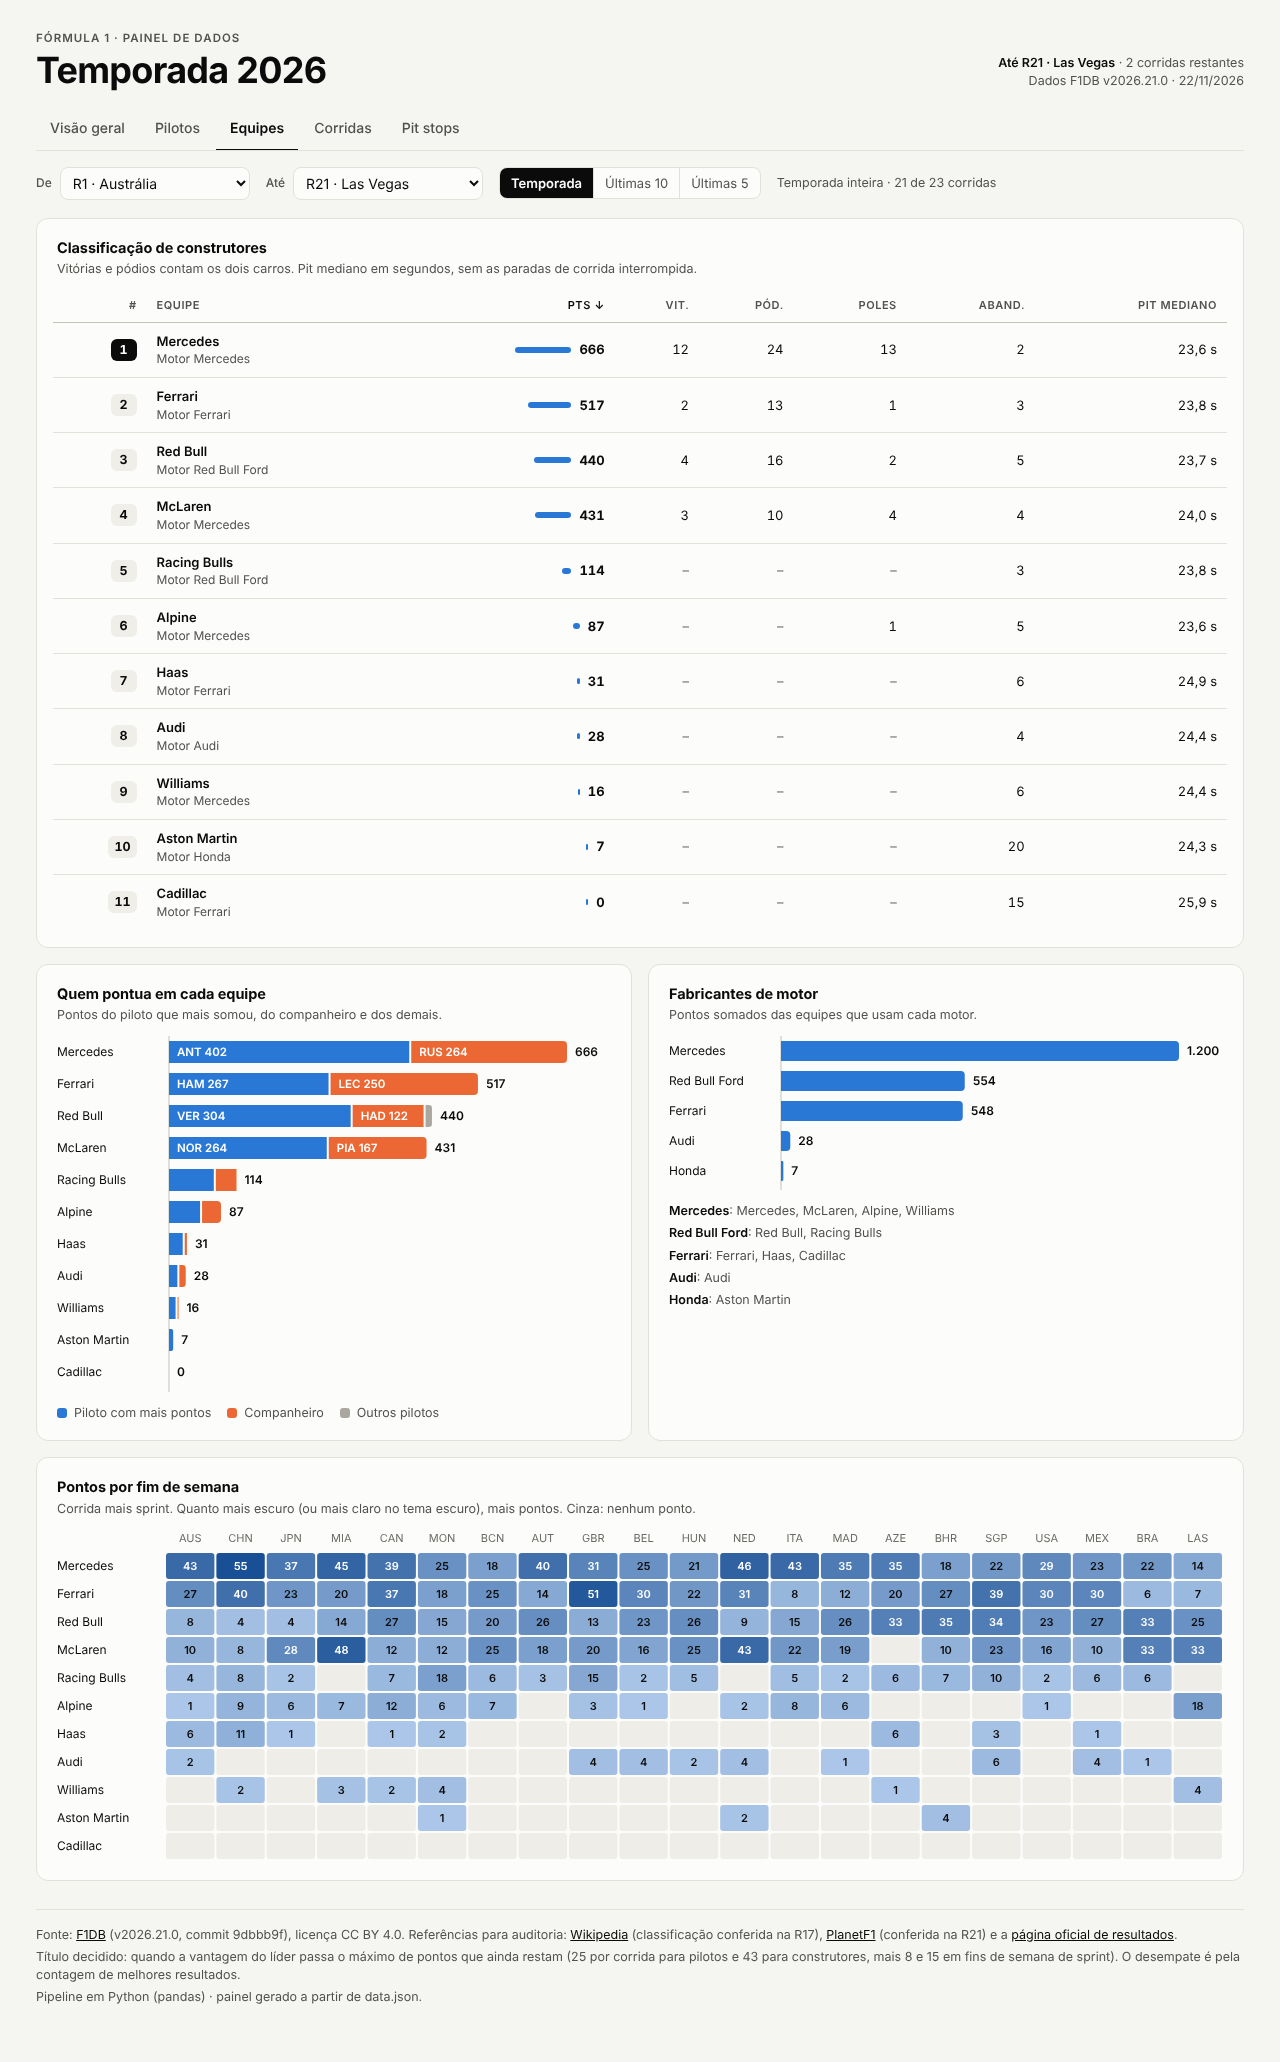
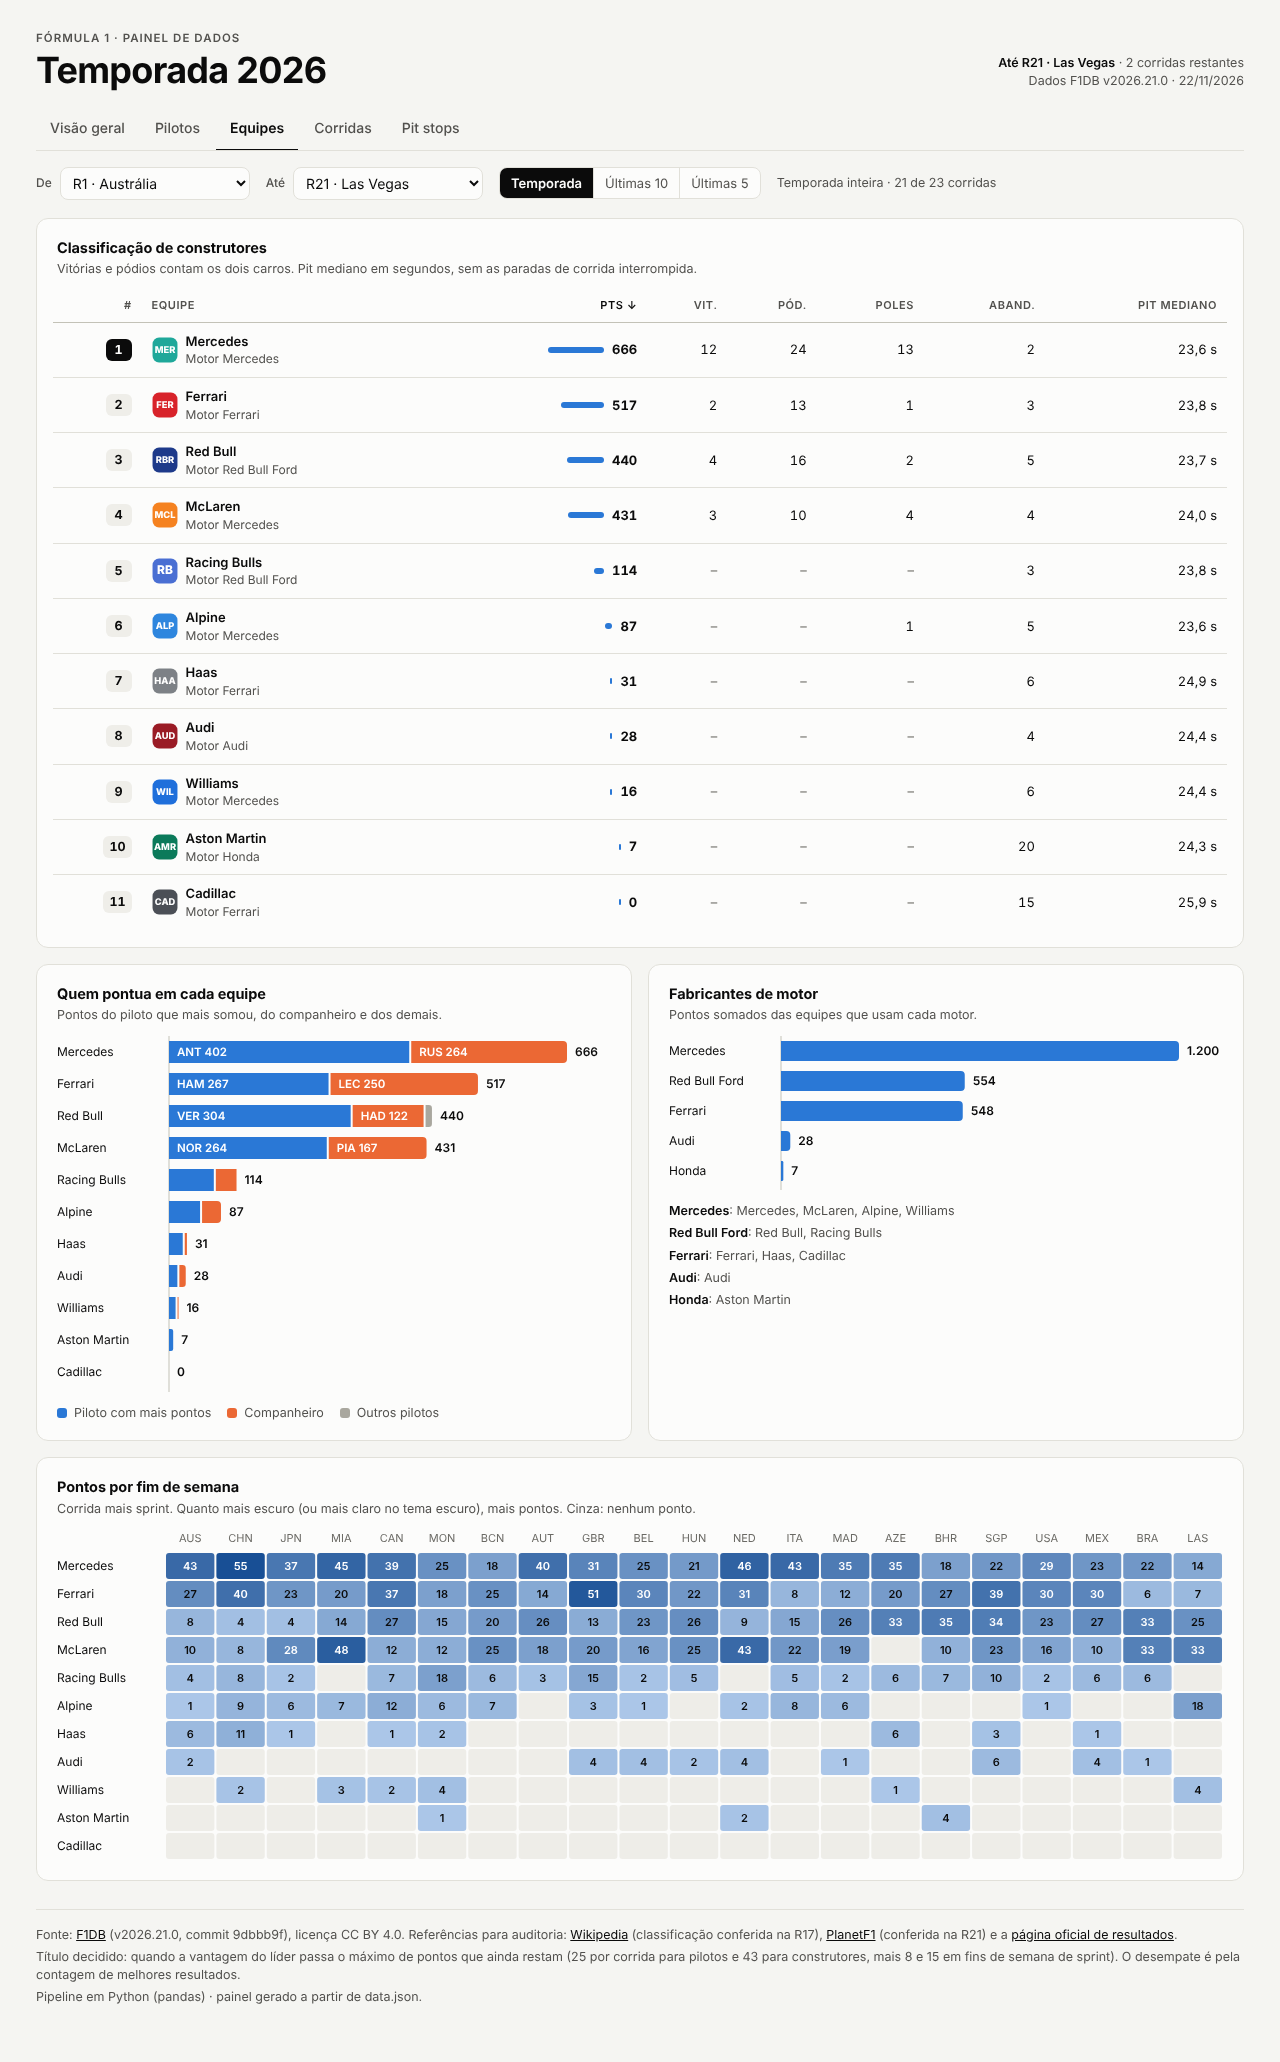
Painel: emblemas das equipes e taças dos campeões
Adiciona emblemas próprios (sigla sobre a cor da equipe) na tabela de equipes,
no gráfico de construtores e nos cartões, e a seção "Campeões de 2026" com taça
dourada quando o título está decidido (apagada quando em aberto). Atualiza
README e imagens.

Claude-Session: https://claude.ai/code/session_018uhaG8NDAsNpUM7AscAmuW

Changed region(s): [[0.0938, 0.1552, 0.2188, 0.4656], [0.4375, 0.2173, 0.5, 0.2793]]

diff --git a/dashboard/index.html b/dashboard/index.html
@@ -202,6 +202,17 @@ footer{margin-top:28px;padding-top:16px;border-top:1px solid var(--line);color:v
 footer a{color:var(--ink)}
 .empty{padding:22px;text-align:center;color:var(--ink2)}
 @media (prefers-reduced-motion:no-preference){.tab,.chip,.seg-ctl button{transition:background-color .12s,color .12s}}
+
+.tb{flex:none;vertical-align:middle}
+.inl{display:inline-flex;align-items:center;gap:8px}
+.champs{display:grid;grid-template-columns:minmax(0,1fr) minmax(0,1fr);gap:16px;margin-top:14px}
+.champ{display:flex;align-items:center;gap:16px;padding:14px 16px;border:1px solid var(--line);border-radius:12px;background:var(--surface)}
+.champ .trophy{flex:none;width:76px;height:76px}
+.champ .k{font-size:12px;color:var(--ink2);font-weight:600;letter-spacing:.06em;text-transform:uppercase}
+.champ .nm{font-size:21px;font-weight:700;letter-spacing:-.01em;margin:2px 0 4px}
+.champ .tm{display:flex;align-items:center;gap:8px;color:var(--ink2);font-size:13px;margin-bottom:8px}
+.champ.open .trophy{opacity:.55}
+@media (max-width:720px){.champs{grid-template-columns:minmax(0,1fr)}}
 </style>
 
 </head>
@@ -253,6 +264,36 @@ const dmy = iso => dm(iso) + '/' + iso.slice(0, 4);
 const median = a => { if (!a.length) return null; const b = [...a].sort((x, y) => x - y), m = b.length >> 1; return b.length % 2 ? b[m] : (b[m - 1] + b[m]) / 2; };
 const signed = n => (n > 0 ? '+' : n < 0 ? '−' : '') + f0(Math.abs(n));
 const plural = (n, one, many) => n === 1 ? one : many;
+
+/* ------------------------------------------------------------ emblemas das equipes e taças
+   Emblemas próprios (sigla sobre a cor da equipe). Não são os logotipos oficiais, que são marcas registradas. */
+const TEAM_STYLE = {
+  'mercedes': ['MER', '#1fa89a'], 'ferrari': ['FER', '#d8232a'], 'red-bull': ['RBR', '#1e3a8a'], 'mclaren': ['MCL', '#f58220'],
+  'racing-bulls': ['RB', '#4a6fd3'], 'alpine': ['ALP', '#2e86de'], 'haas': ['HAA', '#7d8186'], 'audi': ['AUD', '#9a1b25'],
+  'williams': ['WIL', '#1f6fdb'], 'aston-martin': ['AMR', '#0b7a5a'], 'cadillac': ['CAD', '#4b4f56']
+};
+function teamBadge(i, size = 22) {
+  const id = D.teams[i].id, st = TEAM_STYLE[id] || [D.teams[i].name.slice(0, 3).toUpperCase(), '#6b6a65'];
+  const c = st[1], rgb = [1, 3, 5].map(k => parseInt(c.slice(k, k + 2), 16)), lum = (0.299 * rgb[0] + 0.587 * rgb[1] + 0.114 * rgb[2]) / 255;
+  const fs = st[0].length > 2 ? 8.6 : 11;
+  return sv('svg', { class: 'tb', width: size, height: size, viewBox: '0 0 24 24', role: 'img', 'aria-label': 'Emblema ' + D.teams[i].name },
+    sv('rect', { x: 0.5, y: 0.5, width: 23, height: 23, rx: 6, fill: c }),
+    sv('text', { x: 12, y: 15, 'text-anchor': 'middle', 'font-size': fs, 'font-weight': 800, 'font-family': 'Inter,system-ui,sans-serif', fill: lum > 0.62 ? '#0b0b0b' : '#ffffff', text: st[0] }));
+}
+const mainTeam = a => [...a.teams.entries()].sort((x, y) => y[1] - x[1])[0]?.[0];
+let trophyN = 0;
+function trophy(won, label) {
+  const g = 'tg' + (++trophyN);
+  const fill = won ? `url(#${g})` : 'none', stroke = won ? '#a8741a' : 'var(--axis)';
+  return sv('svg', { class: 'trophy', viewBox: '0 0 64 64', role: 'img', 'aria-label': label },
+    won ? sv('defs', null, sv('linearGradient', { id: g, x1: 0, y1: 0, x2: 1, y2: 1 },
+      sv('stop', { offset: '0', 'stop-color': '#f7dc7a' }), sv('stop', { offset: '.55', 'stop-color': '#e3aa2c' }), sv('stop', { offset: '1', 'stop-color': '#b9801c' }))) : null,
+    sv('path', { d: 'M20 6h24v16c0 9-5.5 15-12 15S20 31 20 22z', fill, stroke, 'stroke-width': 2, 'stroke-linejoin': 'round' }),
+    sv('path', { d: 'M20 11h-8c0 9 3 14 9 15M44 11h8c0 9-3 14-9 15', fill: 'none', stroke, 'stroke-width': 2.4, 'stroke-linecap': 'round' }),
+    sv('path', { d: 'M28 37h8v8h-8z', fill, stroke, 'stroke-width': 2, 'stroke-linejoin': 'round' }),
+    sv('path', { d: 'M21 52c0-4 4-7 11-7s11 3 11 7v3H21z', fill, stroke, 'stroke-width': 2, 'stroke-linejoin': 'round' }),
+    won ? sv('path', { d: 'M32 12l2.2 4.6 5 .7-3.6 3.5.9 5-4.5-2.4-4.5 2.4.9-5-3.6-3.5 5-.7z', fill: '#fff6d6', opacity: .85 }) : null);
+}
 function niceTicks(max, count = 5) {
   const raw = max / count, p = Math.pow(10, Math.floor(Math.log10(raw))), f = raw / p;
   const step = (f <= 1 ? 1 : f <= 2 ? 2 : f <= 2.5 ? 2.5 : f <= 5 ? 5 : 10) * p, t = [];
@@ -461,7 +502,7 @@ function evolutionTable() {
 
 /* ------------------------------------------------------------ gráfico: barras de construtores */
 function rankBarsDraw(items, W, what) {
-  const rowH = 30, bh = 20, labelW = W < 420 ? 92 : 112, valW = 44;
+  const hasB = items.some(t => t.tid != null), rowH = 30, bh = 20, labelW = (W < 420 ? 92 : 112) + (hasB ? 26 : 0), valW = 44;
   const H = items.length * rowH + 4, max = Math.max(1, ...items.map(t => t.value)), x0 = labelW, span = Math.max(20, W - labelW - valW);
   const svg = sv('svg', { class: 'chart', width: W, height: H, viewBox: `0 0 ${W} ${H}`, role: 'img', 'aria-label': what + ': ' + items.map(t => `${t.label} ${t.value}`).join(', ') });
   svg.append(sv('line', { class: 'axl', x1: x0, x2: x0, y1: 0, y2: H }));
@@ -470,7 +511,8 @@ function rankBarsDraw(items, W, what) {
     const d = len < 1 ? '' : r < 1 ? `M${x0},${yy}h${len}v${bh}h${-len}z` : `M${x0},${yy}h${len - r}a${r},${r} 0 0 1 ${r},${r}v${bh - 2 * r}a${r},${r} 0 0 1 ${-r},${r}h${-(len - r)}z`;
     const g = sv('g', { tabindex: 0, 'aria-label': `${t.label}: ${t.value} pontos` },
       sv('rect', { x: 0, y: k * rowH, width: W, height: rowH, fill: 'transparent' }),
-      sv('text', { class: 'tk-strong', x: 0, y: yy + bh / 2 + 4, text: t.label }),
+      t.tid != null ? (() => { const b = teamBadge(t.tid, 20); b.setAttribute('x', 0); b.setAttribute('y', yy); return b; })() : null,
+      sv('text', { class: 'tk-strong', x: t.tid != null ? 26 : 0, y: yy + bh / 2 + 4, text: t.label }),
       d ? sv('path', { d, fill: 'var(--seq)' }) : null,
       sv('text', { class: 'lbl', x: x0 + len + 8, y: yy + bh / 2 + 4, text: f0(t.value) }));
     const on = e => tipShow(e.clientX, e.clientY, tipBody(t.label, t.sub, t.rows));
@@ -480,7 +522,7 @@ function rankBarsDraw(items, W, what) {
   });
   return svg;
 }
-const teamItems = T => T.map(t => ({ label: tn(t.i), value: t.pts, sub: D.teams[t.i].engine ? 'Motor ' + D.teams[t.i].engine : '',
+const teamItems = T => T.map(t => ({ tid: t.i, label: tn(t.i), value: t.pts, sub: D.teams[t.i].engine ? 'Motor ' + D.teams[t.i].engine : '',
   rows: [{ l: 'Pontos', v: f0(t.pts) }, { l: 'Vitórias', v: f0(t.w) }, { l: 'Pódios', v: f0(t.p) }, { l: 'Abandonos', v: f0(t.dnf) }] }));
 function aggEngines(T) {
   const m = new Map();
@@ -507,7 +549,7 @@ function viewGeral() {
 
   const hero = h('section', { class: 'card hero', 'aria-label': 'Líder do campeonato' },
     h('div', { class: 'eyebrow', text: full ? `Líder do campeonato · após R${state.to} ${rd(state.to).name}` : `Mais pontos de R${state.from} a R${state.to}` }),
-    h('div', { class: 'who', text: lead.pts ? dn(lead.i) : '—' }), h('div', { class: 'team', text: teamLabel(lead) }),
+    h('div', { class: 'who', text: lead.pts ? dn(lead.i) : '—' }), h('div', { class: 'team inl' }, lead.pts && mainTeam(lead) != null ? teamBadge(mainTeam(lead), 20) : null, teamLabel(lead)),
     h('div', { class: 'hero-num' }, f0(lead.pts), h('small', { text: 'pts' })),
     h('div', { class: 'pills' },
       h('span', { class: 'pill', text: `${signed(lead.pts - second.pts)} sobre ${dn(second.i)}` }),
@@ -519,11 +561,28 @@ function viewGeral() {
   const winners = new Set(rs.filter(x => x.pos === 1).map(x => x.d)), winTeams = new Set(rs.filter(x => x.pos === 1).map(x => x.t));
   const tiles = h('div', { class: 'tiles' },
     tile('Corridas no período', [`${doneRounds.length} `, h('small', { text: `de ${total}` })], next && state.to === last ? `Próxima: ${next.name}, ${dm(next.date)}` : `Até R${state.to} · ${rd(state.to).name}`),
-    tile('Construtores', T[0].pts ? tn(T[0].i) : '—', [`${f0(T[0].pts)} pts · ${signed(T[0].pts - T[1].pts)} sobre ${tn(T[1].i)}`, tDecided ? h('div', null, h('span', { class: 'pill good', style: 'margin-top:6px' }, checkIcon(), `Decidido na R${clT.round}`)) : null]),
+    tile('Construtores', T[0].pts ? h('span', { class: 'inl' }, teamBadge(T[0].i, 28), tn(T[0].i)) : '—', [`${f0(T[0].pts)} pts · ${signed(T[0].pts - T[1].pts)} sobre ${tn(T[1].i)}`, tDecided ? h('div', null, h('span', { class: 'pill good', style: 'margin-top:6px' }, checkIcon(), `Decidido na R${clT.round}`)) : null]),
     tile('Pole e vitória', [`${poleWins} `, h('small', { text: `de ${poleN}` })], 'corridas em que a pole virou vitória'),
     tile('Vencedores diferentes', [`${winners.size} `, h('small', { text: plural(winners.size, 'piloto', 'pilotos') })], `de ${winTeams.size} ${plural(winTeams.size, 'equipe', 'equipes')}`));
 
   const grid1 = h('div', { class: 'grid g-hero' }, hero, tiles);
+
+  // campeões (sempre sobre a temporada inteira, independente do filtro)
+  const allS = aggDrivers(R).sort(cmpCnt), allT = aggTeams(R).sort(cmpCnt), cD = clinch('driver'), cT = clinch('team');
+  const leftAll = rounds.filter(x => x.r > last);
+  const champCard = (kind, won, cl, name, team, pts, second) => h('div', { class: 'champ' + (won ? '' : ' open') },
+    trophy(won, won ? `Taça de campeão de ${kind}` : `Taça ainda em disputa: ${kind}`),
+    h('div', null,
+      h('div', { class: 'k', text: `Campeão de ${kind}` }),
+      h('div', { class: 'nm', text: won ? name : 'Em disputa' }),
+      h('div', { class: 'tm' }, team != null ? teamBadge(team, 20) : null, won ? (kind === 'pilotos' ? teamLabel(allS[0]) + ' · ' : '') + `${f0(pts)} pts` : `Líder: ${name} · ${f0(pts)} pts`),
+      won ? h('span', { class: 'pill good' }, checkIcon(), `Título decidido na R${cl.round}`) : h('span', { class: 'pill', text: `${signed(pts - second)} sobre o segundo` })));
+  const champs = h('section', { class: 'card', style: 'margin-bottom:16px', 'aria-label': 'Campeões da temporada' },
+    h('div', { class: 'card-head' }, h('div', null, h('h2', { text: `Campeões de ${D.meta.year}` }),
+      h('p', { class: 'sub', text: leftAll.length ? `Título matematicamente decidido, sem esperar o fim do ano. A temporada segue até ${leftAll[leftAll.length - 1].name}.` : 'Temporada encerrada.' }))),
+    h('div', { class: 'champs' },
+      champCard('pilotos', !!cD, cD, dn(allS[0].i), mainTeam(allS[0]), allS[0].pts, allS[1].pts),
+      champCard('construtores', !!cT, cT, tn(allT[0].i), allT[0].i, allT[0].pts, allT[1].pts)));
 
   // evolução
   const chips = h('div', { class: 'chips', role: 'group', 'aria-label': 'Pilotos no gráfico' },
@@ -567,7 +626,7 @@ function viewGeral() {
       h('span', { class: 'tri' }, top.map((x, i) => i === 0 ? h('b', { text: D.drivers[x.d].abbr }) : h('span', { text: D.drivers[x.d].abbr }))));
   });
   const recCard = h('section', { class: 'card' }, h('div', { class: 'card-head' }, h('div', null, h('h2', { text: 'Últimas corridas' }), h('p', { class: 'sub', text: 'Pódio de cada GP, do vencedor (em negrito) ao terceiro.' }))), recent);
-  return [grid1, grid2, h('div', { class: 'grid g-half' }, winCard, recCard)];
+  return [grid1, champs, grid2, h('div', { class: 'grid g-half' }, winCard, recCard)];
 }
 
 /* ------------------------------------------------------------ pilotos */
@@ -650,7 +709,7 @@ function viewEquipes() {
   const maxPts = Math.max(1, ...T.map(t => t.pts));
   const cols = [
     { k: 'rank', label: '#', num: true, sort: true, val: t => t.rank, cell: t => h('span', { class: 'posb' + (t.rank === 1 ? ' p1' : ''), text: String(t.rank) }) },
-    { k: 'name', label: 'Equipe', sort: true, val: t => tn(t.i), cell: t => h('span', null, h('span', { class: 'name', text: tn(t.i) }), h('span', { class: 'under', text: D.teams[t.i].engine ? 'Motor ' + D.teams[t.i].engine : '' })) },
+    { k: 'name', label: 'Equipe', sort: true, val: t => tn(t.i), cell: t => h('span', { class: 'inl' }, teamBadge(t.i, 26), h('span', null, h('span', { class: 'name', text: tn(t.i) }), h('span', { class: 'under', text: D.teams[t.i].engine ? 'Motor ' + D.teams[t.i].engine : '' }))) },
     { k: 'pts', label: 'Pts', num: true, sort: true, val: t => t.pts, cell: t => h('span', { class: 'ptsbar' }, h('span', { class: 'b', style: `width:${Math.max(2, t.pts / maxPts * 56)}px` }), h('b', { text: f0(t.pts) })) },
     { k: 'w', label: 'Vit.', num: true, sort: true, val: t => t.w, cell: t => t.w ? String(t.w) : h('span', { class: 'dash', text: '–' }) },
     { k: 'p', label: 'Pód.', num: true, sort: true, val: t => t.p, cell: t => t.p ? String(t.p) : h('span', { class: 'dash', text: '–' }) },

diff --git a/README.md b/README.md
@@ -8,7 +8,7 @@ Montei um painel interativo da temporada 2026 de Fórmula 1 a partir de dados ab
 
 ## Prévia
 
-**Visão geral.** Líder do campeonato, evolução dos pontos, construtores, fabricantes de motor, vencedores e pódio das últimas corridas.
+**Visão geral.** Líder do campeonato, taças dos campeões de pilotos e de construtores, evolução dos pontos, construtores com o emblema de cada equipe, fabricantes de motor, vencedores e pódio das últimas corridas.
 
 ![Visão geral](docs/img/01-visao-geral.png)
 
@@ -16,7 +16,7 @@ Montei um painel interativo da temporada 2026 de Fórmula 1 a partir de dados ab
 
 ![Pilotos](docs/img/02-pilotos.png)
 
-**Equipes.** Classificação de construtores, quem pontua dentro de cada equipe, motores e um mapa de calor com os pontos de cada fim de semana.
+**Equipes.** Classificação de construtores com o emblema de cada equipe, quem pontua dentro de cada equipe, motores e um mapa de calor com os pontos de cada fim de semana.
 
 ![Equipes](docs/img/03-equipes.png)
 
@@ -113,9 +113,10 @@ Depois abra `http://localhost:8000` no navegador.
 ### 1 · Visão geral
 
 - **Líder do campeonato:** pontos, vantagem sobre o segundo colocado e o aviso *Título decidido na R__*, que aparece quando a vantagem passa o máximo de pontos ainda em disputa.
+- **Campeões:** duas taças, uma para o campeão de pilotos e outra para o de construtores. A taça dourada aparece quando o título já está matematicamente decidido, com a etapa em que isso aconteceu. Enquanto o título está em aberto, a taça fica apagada e mostra o líder. Essa seção usa sempre a temporada inteira e não muda com o filtro de corridas.
 - **Cartões:** corridas no período, a próxima prova, quantas poles viraram vitória e quantos pilotos e equipes diferentes venceram.
 - **Evolução do campeonato:** pontos acumulados após cada etapa, com seleção de pilotos e visão em tabela.
-- **Construtores e fabricantes de motor:** pontos no período, com as equipes que usam cada motor.
+- **Construtores e fabricantes de motor:** pontos no período, com as equipes que usam cada motor. Cada equipe tem um emblema com a sigla e a cor dela.
 - **Quem venceu** e **Últimas corridas:** vitórias por piloto e pódio das seis corridas mais recentes (o *S* marca fim de semana de sprint).
 
 ### 2 · Pilotos
@@ -286,6 +287,7 @@ As tabelas se relacionam por `Rodada`, `Piloto_ID` e `Equipe_ID`, no esquema est
 - **Nomes sem acento no código, com acento nos arquivos.** Dentro do código, tabelas e colunas não levam acento (`Calendario`, `Posicao`), o que facilita digitar e buscar. Na hora de gravar, o `names.py` troca pelos nomes corretos (`Calendário`, `Posição`) nos CSVs, no Excel e no relatório de validação. Os nomes dos arquivos CSV também levam acento.
 - **Validação dentro do pipeline**, e não como passo manual: se os pontos não fecham, a execução falha.
 - **Painel sem framework e sem etapa de build.** HTML, CSS e JavaScript puros, com SVG inline. Ele abre em qualquer servidor estático e não usa bibliotecas externas. A única chamada externa é a fonte Inter, do Google Fonts. Sem ela, o painel usa a fonte do sistema.
+- **Emblemas e taças próprios.** Os logotipos oficiais das equipes são marcas registradas, então não os uso. Cada equipe tem um emblema desenhado em SVG, com a sigla sobre a cor dela (definido em `TEAM_STYLE`, dentro do `dashboard/index.html`). A taça também é um SVG genérico, e não a réplica do troféu oficial.
 - **Acessibilidade.** Cores fixas por piloto (os 8 primeiros), com tema claro e escuro pensados para daltonismo, e uma visão em tabela de cada gráfico para quem não depende de cor.
 
 ### Atualização automática
